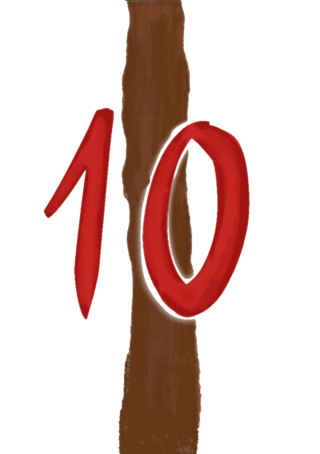
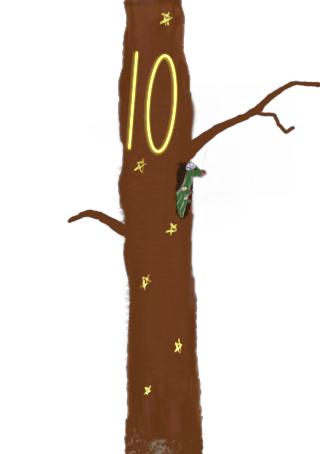
Happy Hanukkah

diff --git a/src/main.ts b/src/main.ts
@@ -4,7 +4,7 @@ const app = express();
 app.set("view engine", "ejs");
 
 app.get("/", (request, response) => {
-	response.render("index", { currentDay: 9 });
+	response.render("index", { currentDay: 10 });
 });
 app.get("/tag/:number", (request, response) => {
 	if (request.params.number === "6") {
